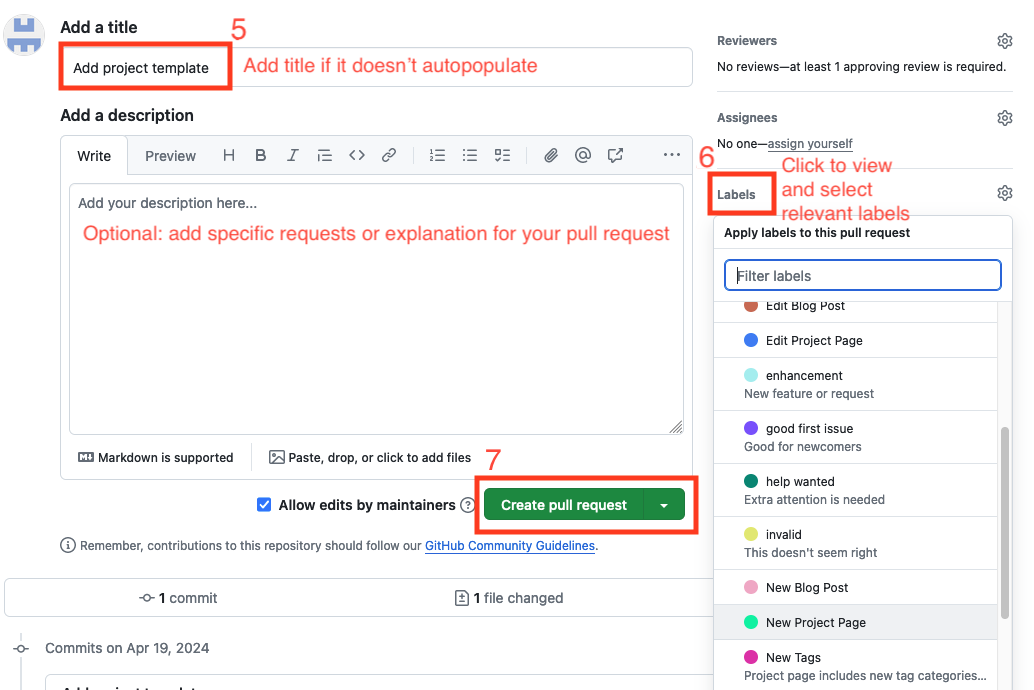
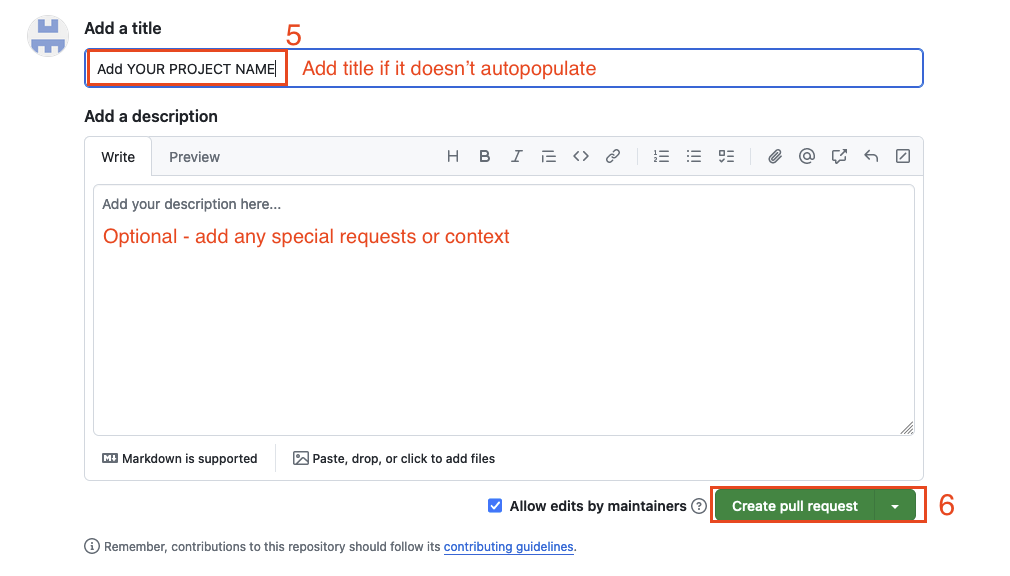
docs: removed step b/c not available to non-maintainers

diff --git a/CONTRIBUTING.md b/CONTRIBUTING.md
@@ -104,17 +104,18 @@ npm run dev
             └── _project-template.md
 ```
 
-3. Copy `/src/content/projects/_project-template.md` and paste a duplicate of the file into the same folder (`/src/content/projects/`). Rename the template file with your software project's title in **lowercase** with dashes connecting each word. For example, if your software is called "Awesome Software", you would rename the file as `awesome-software.md`.
+3. Copy `/src/content/projects/_project-template.md` and paste a duplicate of the file into the same folder (`/src/content/projects/`). Rename the template file with your software project's title in **lowercase**, with dashes replacing spaces.
+   - For example, if your software is called "Awesome Software", you would rename the file as `awesome-software.md`.
+   - If your software is called "AwesomeSoftware", the file name would be `awesomesoftware.md`
 
 Open your project file to view its contents. At the top of the file are data sandwiched between triple-dashes (---). These data are collectively called **frontmatter** and are used by Astro to populate the webpage content for a project.
 
-4. **Start by editing the `title` field. The title value must match the name of your project file name with each dash converted to a space, but it can have whatever casing you desire.** For example, if your project file is named `awesome-software.md`, your `title` entry can appear as:
-
-`title: Awesome Software` or
-`title: AWESOME SOFTWARE` or
-`title: AWEsome Software` etc...
-
-But the title cannot be `title: AwesomeSoftware`. This is equiavlent to a file name of `awesomesoftware.md`.
+4. **Start by editing the `title` field. The title value must match the name of your project file name with each dash converted to a space**, but it can have whatever casing you desire.
+   - For example, if your project file is named `awesome-software.md`, your `title` entry can appear as:
+     `title: Awesome Software` or
+     `title: AWESOME SOFTWARE` or
+     `title: AWEsome Software` etc...
+     But the title cannot be `title: AwesomeSoftware` - this is equiavlent to a file name of `awesomesoftware.md`.
 
 ## Edit a project
 
@@ -124,40 +125,37 @@ At the top of your project file are data sandwiched between triple-dashes (---).
 
 - Follow the guidance in the table below to fill out your project file's frontmatter. You can also refer to `/src/projects/_project-template.md` for further guidance and examples for each data variable.
 
-- For all variables, only edit the values to the right of the colon in the project template (e.g., for `title:`, delete and replace "Your project title" circled in red below). Editing values to the left of the colon may result in errors being thrown by the local server.
-  ![The top of the project template file, showing some sample frontmatter](./public/readme-images/frontmatter.png)
-
 - For each **required** variable, you must provide a value or an error will be thrown when you try to view your project page on the local server.
 
 - For each **optional** variable, **if you do not wish to provide a value you must comment out or delete the entire entry.**
 
-| Variable name                    | Required or optional                                               | How to complete                                                                                                                                                                                                                                                         |
-| :------------------------------- | :----------------------------------------------------------------- | :---------------------------------------------------------------------------------------------------------------------------------------------------------------------------------------------------------------------------------------------------------------------- |
-| `title`                          | Required                                                           | Your project title.                                                                                                                                                                                                                                                     |
-| `tagline`                        | Required                                                           | One or two sentences describing your project.                                                                                                                                                                                                                           |
-| `maintainer`                     | Required                                                           | The maintainer of the project page on this website. This should be the name of one primary point-of-contact.                                                                                                                                                            |
-| `maintainer contact info`        | Required                                                           | The preferred contact method for the maintainer - this should either an email address or a link to a contact method such as X, Instagram, LinkedIn, or Facebook.                                                                                                        |
-| `project type`                   | Required                                                           | Pick **one** of the three options provided in the template based on whether your software project is currently or was ever supported by OSSI: `[OSSI - current, OSSI - previous, Other]`. Delete the other two options, leaving the square brackets around your choice. |
-| `OSSI proposal link`             | Required for current and previous OSSI-funded projects             | Link to the OSSI proposal, written as a string (no square brackets).                                                                                                                                                                                                    |
-| `github link`                    | Required                                                           | Link to the software project's GitHub repository.                                                                                                                                                                                                                       |
-| `documentation link`             | Required                                                           | Link to software documentation - can be the same as the GitHub repo if the README is the documentation                                                                                                                                                                  |
-| `installation instructions link` | Required                                                           | Link to software installation instructions - can be the same as the GitHub repo                                                                                                                                                                                         |
-| `how to cite text`               | Required if your software has an associated published paper or DOI | The citation for your software - wrap in quotes to ensure colons are interpreted correctly. If your software doesn't have an associated published paper or DOI, leave this blank.                                                                                       |
-| `how to cite link`               | Optional                                                           | A DOI. Wrap in quotes to ensure the colon is interpreted correctly. If a DOI is not available, leave this blank - your GitHub repo will be used as the default. Each DOI should start with `https://doi.org/`                                                           |
-| `additional links array`         | Optional                                                           | Optional external links formatted in a comma-separated array. If there is a colon in a link, wrap the entire link in quotations. For example, you could provide links to a project homepage, an externally-hosted blog post, additional publications, etc.              |
-| `additional links text array`    | Optional                                                           | If your project has an associated blog post file, provide the file name here in square brackets, without the .md extenstion (e.g., `[my-related-blog-post-file]`). If there is more than one related blog posts separate the file names by commas.                      |
-| `image file`                     | Optional                                                           | Format as: `image-file-name-with-no-spaces.fileExtension`<br/> Then see [Adding an image](#optional---add-an-image) for more information about uploading an image.                                                                                                      |
-| `image caption`                  | Required if you add an image file                                  | A brief description of the image - this will be displayed on the site                                                                                                                                                                                                   |
-| `youtube url`                    | Optional                                                           | Link to a YouTube-hosted video demoing your software.                                                                                                                                                                                                                   |
-| `youtube caption`                | Required if you add a video link                                   | A brief description of the video - this will be displayed on the site                                                                                                                                                                                                   |
-| `development team`               | Optional                                                           | [Tag variable - see guidance](#guidance-for-tag-variables)                                                                                                                                                                                                              |
-| `programming language`           | Optional                                                           | [Tag variable - see guidance](#guidance-for-tag-variables)                                                                                                                                                                                                              |
-| `open source license`            | Optional                                                           | [Tag variable - see guidance](#guidance-for-tag-variables)                                                                                                                                                                                                              |
-| `software type`                  | Optional                                                           | [Tag variable - see guidance](#guidance-for-tag-variables)                                                                                                                                                                                                              |
-| `use case`                       | Optional                                                           | [Tag variable - see guidance](#guidance-for-tag-variables)                                                                                                                                                                                                              |
-| `usage environment`              | Optional                                                           | [Tag variable - see guidance](#guidance-for-tag-variables)                                                                                                                                                                                                              |
-| `software ecosystem`             | Optional                                                           | [Tag variable - see guidance](#guidance-for-tag-variables)                                                                                                                                                                                                              |
-| `supported file types`           | Optional                                                           | [Tag variable - see guidance](#guidance-for-tag-variables)                                                                                                                                                                                                              |
+| Variable name                    | Required or optional                                                                                      | How to complete                                                                                                                                                                                                                                                         |
+| :------------------------------- | :-------------------------------------------------------------------------------------------------------- | :---------------------------------------------------------------------------------------------------------------------------------------------------------------------------------------------------------------------------------------------------------------------- |
+| `title`                          | Required                                                                                                  | Your project title.                                                                                                                                                                                                                                                     |
+| `tagline`                        | Required                                                                                                  | One or two sentences describing your project.                                                                                                                                                                                                                           |
+| `maintainer`                     | Required                                                                                                  | The maintainer of the project page on this website. This should be the name of one primary point-of-contact.                                                                                                                                                            |
+| `maintainer contact info`        | Required                                                                                                  | The preferred contact method for the maintainer - this should either an email address or a link to a contact method such as X, Instagram, LinkedIn, or Facebook.                                                                                                        |
+| `project type`                   | Required                                                                                                  | Pick **one** of the three options provided in the template based on whether your software project is currently or was ever supported by OSSI: `[OSSI - current, OSSI - previous, Other]`. Delete the other two options, leaving the square brackets around your choice. |
+| `OSSI proposal link`             | Required for current and previous OSSI-funded projects                                                    | Link to the OSSI proposal, written as a string (no square brackets).                                                                                                                                                                                                    |
+| `github link`                    | Required                                                                                                  | Link to the software project's GitHub repository.                                                                                                                                                                                                                       |
+| `documentation link`             | Required                                                                                                  | Link to software documentation - can be the same as the GitHub repo if the README is the documentation                                                                                                                                                                  |
+| `installation instructions link` | Required                                                                                                  | Link to software installation instructions - can be the same as the GitHub repo                                                                                                                                                                                         |
+| `how to cite text`               | Required if your software has an associated published paper or DOI                                        | The citation for your software - wrap in quotes to ensure colons are interpreted correctly. If your software doesn't have an associated published paper or DOI, leave this blank.                                                                                       |
+| `how to cite link`               | Optional. </br> _Reminder - comment out or delete optional fields you do not wish to provide a value for_ | A DOI. Wrap in quotes to ensure the colon is interpreted correctly. If a DOI is not available, leave this blank - your GitHub repo will be used as the default. Each DOI should start with `https://doi.org/`                                                           |
+| `additional links array`         | Optional                                                                                                  | Optional external links formatted in a comma-separated array. If there is a colon in a link, wrap the entire link in quotations. For example, you could provide links to a project homepage, an externally-hosted blog post, additional publications, etc.              |
+| `additional links text array`    | Optional                                                                                                  | If your project has an associated blog post file, provide the file name here in square brackets, without the .md extenstion (e.g., `[my-related-blog-post-file]`). If there is more than one related blog posts separate the file names by commas.                      |
+| `image file`                     | Optional                                                                                                  | Format as: `image-file-name-with-no-spaces.fileExtension`<br/> Then see [Adding an image](#optional---add-an-image) for more information about uploading an image. Note - only one image file is supported at this time.                                                |
+| `image caption`                  | Required if you add an image file                                                                         | A brief description of the image - this will be displayed on the site                                                                                                                                                                                                   |
+| `youtube url`                    | Optional                                                                                                  | Link to a YouTube-hosted video demoing your software.                                                                                                                                                                                                                   |
+| `youtube caption`                | Required if you add a video link                                                                          | A brief description of the video - this will be displayed on the site                                                                                                                                                                                                   |
+| `development team`               | Optional                                                                                                  | [Tag variable - see guidance](#guidance-for-tag-variables)                                                                                                                                                                                                              |
+| `programming language`           | Optional                                                                                                  | [Tag variable - see guidance](#guidance-for-tag-variables)                                                                                                                                                                                                              |
+| `open source license`            | Optional                                                                                                  | [Tag variable - see guidance](#guidance-for-tag-variables)                                                                                                                                                                                                              |
+| `software type`                  | Optional                                                                                                  | [Tag variable - see guidance](#guidance-for-tag-variables)                                                                                                                                                                                                              |
+| `use case`                       | Optional                                                                                                  | [Tag variable - see guidance](#guidance-for-tag-variables)                                                                                                                                                                                                              |
+| `usage environment`              | Optional                                                                                                  | [Tag variable - see guidance](#guidance-for-tag-variables)                                                                                                                                                                                                              |
+| `software ecosystem`             | Optional                                                                                                  | [Tag variable - see guidance](#guidance-for-tag-variables)                                                                                                                                                                                                              |
+| `supported file types`           | Optional                                                                                                  | [Tag variable - see guidance](#guidance-for-tag-variables)                                                                                                                                                                                                              |
 
 ### Guidance for "tag" variables
 
@@ -168,7 +166,15 @@ Tags are used to allow website visitors to filter displayed projects.
 - If an entire tag category is not relevant to your project, delete or comment out the entire category and associated options.
   ![Sample tag categories and options from the project template](./public/readme-images/tags.png)
 - We strive to keep the tag categories and example options up-to-date in the project template, but the final reference for the currently-allowed tag categories and options can always be found [here](https://github.com/JaneliaSciComp/ossi-website/blob/main/.github/actions/validTagsList.json).
-- If you feel there is an additional tag category or option required to describe your project - read the guidance on [Requesting new tag categories or options](#requesting-new-tag-categories-or-options).
+
+#### If you feel there is an additional tag **option** required to describe your project
+
+- Go ahead and add the option(s) to your project file. In your pull request, please note you added the option and provide a brief explanation why. When you open your pull request, these new options will throw a warning for the website maintainer for review.
+
+#### If you feel there is an additional tag **category** required to describe your project
+
+- _Do not add the new tag category to your project's template - this will prevent your project page from displaying in your local server._
+- Open a separate [pull request](#open-a-pull-request) listing the new tag category(ies) with a brief explanation of why you feel the addition is necessary.
 
 ### Optional - Edit the project description
 
@@ -186,14 +192,6 @@ If you would rather provide a custom project description, you can do so by typin
 1. Add your desired image to `/public/project-images/`, using a filename without spaces.
 2. Edit your project file to include a value for `image file` as outlined in the [table above](#edit-the-frontmatter).
 
-### Requesting new tag categories or options
-
-- _Tag categories are the the variable name to the left of the colon in the project Markdown file._
-- _Tag options are the values in the square brackets to the right of the colon._
-  ![Sample tag categories and options from the project template](./public/readme-images/tags.png)
-
-_Do not add the new tag category or option to your project's template._ Open a separate [pull request](#open-a-pull-request) listing the new tag category(ies) and/or tag options(s) you wish to add. Make sure to select the "new tags added" label.
-
 ## Preview your project page and push your changes to GitHub
 
 #### Preview your project page on the local dev server.
@@ -205,16 +203,18 @@ _Do not add the new tag category or option to your project's template._ Open a s
 3.  Navigate in your web browser to:
 
 ```
-localhost:4321/ossi-webiste/projects/YOUR-PROJECT-NAME
+localhost:4321/ossi-website/projects/<your-project-name>
 ```
 
 #### When you're done editing the project file and adding optional images, commit your changes and push them to GitHub.
 
-1.  Commit your project file locally by typing the following in your code editor's terminal. Modify the message on the commit (wrapped in double quotes) to indicate whether you are adding or editing your project.
+1.  Commit your project file locally by typing the following in your code editor's terminal. Modify the message on the commit (wrapped in double quotes) to indicate whether you are **adding** or **editing** your project.
+
+- Note: If you added an image file, you will also need to `git add public/project-images/YOUR-PROJECT-IMAGE-FILE`
 
 ```
 git add src/content/projects/YOUR-PROJECT-NAME.md
-git commit -m "Add/edit YOUR PROJECT NAME"
+git commit -m "Add YOUR PROJECT NAME"
 ```
 
 2.  Push your changes to your online GitHub repository by entering the following in your code editor's terminal. Note - this code snippet assumes you are working on the default "main" branch. If you created a branch in your GitHub repo for this specific change, edit "main" to your branch name below.
@@ -248,15 +248,9 @@ A page title **Comparing changes** will open. In the dropdown menus:
 
 The **Open pull request** page will open.
 
-5. Add a title in the format of "Add/edit YOUR PROJECT NAME", if needed. If you only made one commit, the **Add a title** text box should autopopulate as from your commit message. Optionally, you can add specific requests or explanations to the **Add a description** text box.
+5. Add a title in the format of "Add YOUR PROJECT NAME" or "Edit YOUR PROJECT NAME", if needed. If you only made one commit, the **Add a title** text box should autopopulate as from your commit message. Optionally, you can add specific requests or explanations to the **Add a description** text box.
 
-6. In the panel on the right side of the screen, (2) select **Labels**. In the dropdown, select the relevant labels for your pull request, e.g.,:
-
-   - New Project Page
-   - Edit Project Page
-   - New Tags
-
-7. Click the green **Create pull request** button to submit your pull request. **Note**: leave the option **Allow edits by maintainers** checked. This will allow the website maintainers to help edit your project file before completing the pull request, if needed.
+6. Click the green **Create pull request** button to submit your pull request. **Note**: leave the option **Allow edits by maintainers** checked. This will allow the website maintainers to help edit your project file before completing the pull request, if needed.
    ![GitHub.com interface to set the title, description, and other details about a pull request. Also includes the button to submit the pull request](./public/readme-images/open-pr-3.png)
 
 After you submit your pull request, an automated check will run to ensure your tag categories and options are valid. If the check fails, a comment will publish to your pull request, indicating where the problem is.
@@ -269,4 +263,4 @@ To fix the error, return to your code editor and make the required changes to th
 
 Your PR will be reviewed by the maintainers of the OSSI site. You may receive requests for changes before your PR is approved.
 
-## Thank you for your contribution!
+### Thank you for your contribution!
